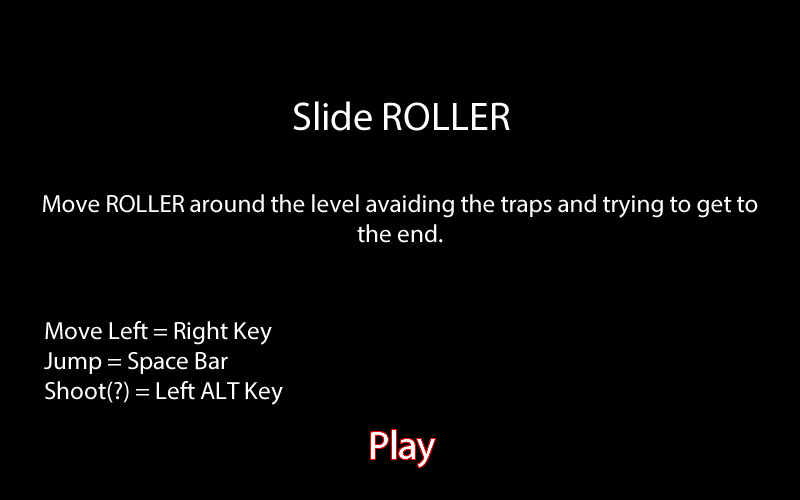
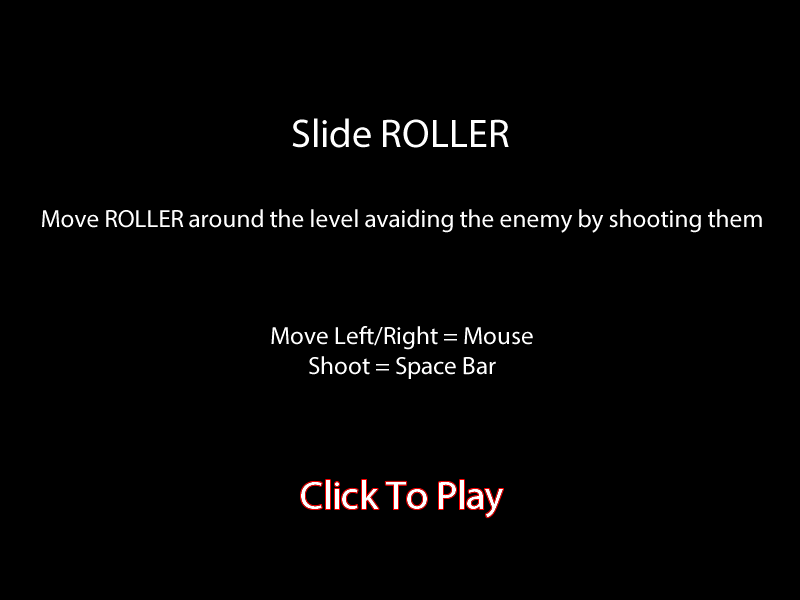
V0.7

diff --git a/Side-Roller.py b/Side-Roller.py
@@ -3,7 +3,7 @@
 # Assinment 4
 # Side ROLLER 
 
-import pygame, random, time
+import pygame, random, time, math
 pygame.init()
 
 screen = pygame.display.set_mode((800, 600))
@@ -35,7 +35,7 @@ class Roller(pygame.sprite.Sprite):
             self.soundKill = pygame.mixer.Sound("eatghost.wav")
             self.soundDeath = pygame.mixer.Sound("death.wav")
             self.soundBackground = pygame.mixer.Sound("cursed_dream.wav")
-            self.soundBackground.play(-1)
+            self.soundIntro = pygame.mixer.Sound("chemicalPlant.wav")
         
     def update(self):
         mousex, mousey = pygame.mouse.get_pos()
@@ -51,7 +51,7 @@ class Bullet(pygame.sprite.Sprite):
         self.rect = self.image.get_rect()
         self.reset()
         
-        self.dx = 5
+        self.dx = 6
         self.shoot = False
 	
     def update(self):
@@ -131,6 +131,35 @@ class whiteEnemy(pygame.sprite.Sprite):
         self.rect.top = 450
         self.rect.centerx = random.randrange(800, 1500)
 
+class Obstical(pygame.sprite.Sprite):
+    def __init__(self):
+        pygame.sprite.Sprite.__init__(self)
+        self.image = pygame.image.load("fallingBall.png")
+        self.image = self.image.convert()
+        self.image.set_colorkey(white)
+        self.rect = self.image.get_rect()
+        self.reset()
+        
+        self.dy = 3
+        self.attack = False
+	
+    def update(self):
+        
+        if self.rect.top > screen.get_height():
+            #self.attack = False
+            self.reset()
+		
+        if self.attack == True:
+            self.rect.centery += self.dy
+
+        if self.attack == False:
+            self.rect.centery = -10
+            self.rect.centerx = 400
+			
+    def reset(self):
+        self.rect.bottom = 0
+        self.rect.centerx = random.randrange(0, screen.get_width()) 
+		
 class Scoreboard(pygame.sprite.Sprite):
     def __init__(self):
         pygame.sprite.Sprite.__init__(self)
@@ -163,6 +192,7 @@ class Background(pygame.sprite.Sprite):
 def game():
     screen = pygame.display.set_mode((800, 600))
     pygame.display.set_caption("Side ROLLER!")
+    
 
     roller = Roller()
     enemyR = redEnemy()
@@ -170,19 +200,24 @@ def game():
     enemyW = whiteEnemy()
     background = Background()
     bullet = Bullet()
+    obstical = Obstical()
+
     scoreboard = Scoreboard()
     
+    roller.soundBackground.play(-1)
+	
     backgroundSprite = pygame.sprite.Group(background)
     badSprites = pygame.sprite.Group(enemyR, enemyP, enemyW)
     scoreSprite = pygame.sprite.Group(scoreboard)
     playerSprite = pygame.sprite.Group(roller)
     bulletSprite = pygame.sprite.Group(bullet)
+    obsticalSprite = pygame.sprite.Group()
 	
     clock = pygame.time.Clock()
     keepGoing = True
+    pygame.mouse.set_visible(False)
     while keepGoing:
         clock.tick(30)
-        pygame.mouse.set_visible(False)
         for event in pygame.event.get():
             if event.type == pygame.QUIT:
                 keepGoing = False
@@ -192,88 +227,90 @@ def game():
                     bullet.shoot = True
 		
         hitEnemys = pygame.sprite.spritecollide(roller, badSprites, False)
-		
         if hitEnemys:
             roller.soundDeath.play()
             scoreboard.lives -= 1
             if scoreboard.lives <= 0:
-                print('Game over!')
+                keepGoing = False
                 scoreboard.lives = 5
                 scoreboard.score = 0
-            for theEnemy in killEnemys:
+            for theEnemy in hitEnemys:
                 theEnemy.reset()
 
+        hitObstical = pygame.sprite.spritecollide(roller, obsticalSprite, False)
+        if hitObstical:
+            roller.soundDeath.play()
+            scoreboard.lives -= 1
+            if scoreboard.lives <= 0:
+                keepGoing = False
+                scoreboard.lives = 5
+                scoreboard.score = 0
+            for theEnemy in hitObstical:
+                theEnemy.reset()
+				
         killEnemys = pygame.sprite.spritecollide(bullet, badSprites, False)
-
         if killEnemys:
             roller.soundKill.play()
             scoreboard.score += 100
             bullet.shoot = False
+            speedUp = False
+            if scoreboard.score % 600 == 0 and scoreboard.score != 0:
+                speedUp = True
+                if speedUp == True:
+                    speedUp = False
+                    enemyR.dx = enemyR.dx + 1
+                    enemyP.dx = enemyP.dx + 1
+                    enemyW.dx = enemyW.dx + 1
+                    print (enemyR.dx)
+                    print (enemyP.dx)
+                    print (enemyW.dx)
+                    print (scoreboard.score)
+            if scoreboard.score % 500 == 0 and scoreboard.score != 0:
+                obsticalSprite.add(obstical)
+                obstical.attack = True
+                print (obsticalSprite)
             for theEnemy in killEnemys:
                 theEnemy.reset()
-
-        previousScore = 0
-        if previousScore + 600 == scoreboard.score:
-            previousScore = scoreboard.score
-            enemyR.dx += 1
-            enemyP.dx += 1
-            enemyW.dx += 1
-            print (previousScore)
-            print (scoreboard.score)
-
 			
         backgroundSprite.update()
         badSprites.update()
         scoreSprite.update()
         bulletSprite.update()
         playerSprite.update()
-
+        obsticalSprite.update()
+		
         backgroundSprite.draw(screen)
         badSprites.draw(screen)
         scoreSprite.draw(screen)
         bulletSprite.draw(screen)
         playerSprite.draw(screen)
-        
+        obsticalSprite.draw(screen)
         
         
         pygame.display.flip()
-    
+   
     roller.soundBackground.stop()
+    roller.soundWaka.stop()
+    roller.soundDeath.stop()
+    roller.soundKill.stop()
+
     #return mouse cursor
     pygame.mouse.set_visible(True)
     return scoreboard.score
 	
-def instructions(score):
+def startScreen(score):
     roller = Roller()
-    background = Background()
+    intro_image = pygame.image.load("Menu-DRAW.png").convert()
+
+    pygame.display.set_caption("Intro")
     
-    allSprites = pygame.sprite.OrderedUpdates(background, roller)
-    insFont = pygame.font.SysFont(None, 50)
-
-    instructions = (
-    "Mail Pilot.     Last score: %d" % score ,
-    "Instructions:  You are a mail pilot,",
-    "delivering mail to the islands.",
-    "",
-    "Fly over an island to drop the mail,",
-    "but be careful not to fly too close",    
-    "to the clouds. Your plane will fall ",
-    "apart if it is hit by lightning too",
-    "many times.",
-    "",
-    "good luck!",
-    "",
-    "click to start, escape to quit..."
-    )
-
-    insLabels = []    
-    for line in instructions:
-        tempLabel = insFont.render(line, 1, (255, 255, 0))
-        insLabels.append(tempLabel)
+    roller.soundIntro.play(-1)
+	
+    screen.blit(intro_image, [0,0])
  
     keepGoing = True
     clock = pygame.time.Clock()
-    pygame.mouse.set_visible(False)
+    pygame.mouse.set_visible(True)
     while keepGoing:
         clock.tick(30)
         for event in pygame.event.get():
@@ -288,24 +325,56 @@ def instructions(score):
                     keepGoing = False
                     donePlaying = True
     
-        allSprites.update()
-        allSprites.draw(screen)
-
-        for i in range(len(insLabels)):
-            screen.blit(insLabels[i], (50, 30*i))
 
         pygame.display.flip()
-        
+    
+    roller.soundIntro.stop()
+    
     pygame.mouse.set_visible(True)
     return donePlaying
-        
+
+def gameOver(score):
+    roller = Roller()
+    intro_image = pygame.image.load("gameOver.png").convert()
+
+    pygame.display.set_caption("Game Over!")
+    
+    roller.soundIntro.play(-1)
+	
+    screen.blit(intro_image, [0,0])
+ 
+    keepGoing = True
+    clock = pygame.time.Clock()
+    pygame.mouse.set_visible(True)
+    while keepGoing:
+        clock.tick(30)
+        for event in pygame.event.get():
+            if event.type == pygame.QUIT:
+                keepGoing = False
+                donePlaying = True
+            if event.type == pygame.MOUSEBUTTONDOWN:
+                keepGoing = False
+                donePlaying = False
+            elif event.type == pygame.KEYDOWN:
+                if event.key == pygame.K_ESCAPE:
+                    keepGoing = False
+                    donePlaying = True
+    
+
+        pygame.display.flip()
+    
+    roller.soundIntro.stop()
+    
+    pygame.mouse.set_visible(True)
+    return donePlaying
+	
 def main():
     donePlaying = False
     score = 0
     while not donePlaying:
-        donePlaying = instructions(score)
+        donePlaying = startScreen(score)
         if not donePlaying:
             score = game()
-	
+            donePlaying = gameOver(score)
 if __name__ == "__main__":
     main()
